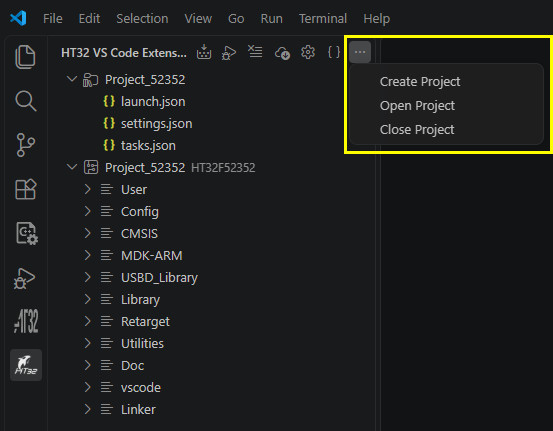
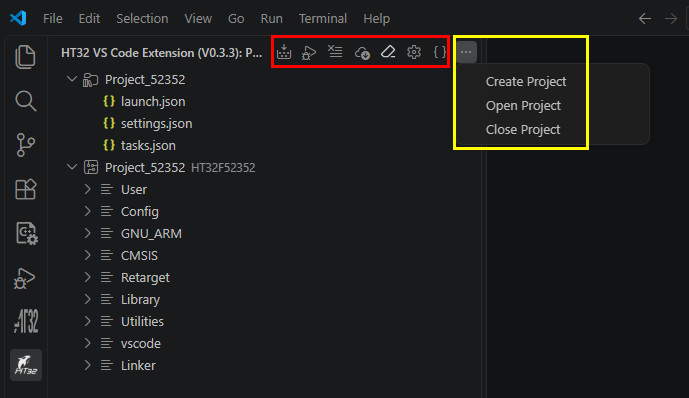
update

diff --git a/src/ht32-project-assistant-for-vs-code.ts b/src/ht32-project-assistant-for-vs-code.ts
@@ -617,6 +617,7 @@ export async function activate(ctx: vscode.ExtensionContext) {
       }, detectedGcc ?? undefined);
     }),
     vscode.commands.registerCommand('ht32.download', () => smartRunTask('download')),
+    vscode.commands.registerCommand('ht32.eraseFlash', () => smartRunTask('erase')),
     vscode.commands.registerCommand('ht32.refreshStackAnalysis', () => stackProvider.refresh()),
     vscode.commands.registerCommand('ht32.refreshProjectTree', () => autoAttachProjectFromWorkspace(ctx, tree)),
 
@@ -1260,7 +1261,7 @@ async function ensureAdapterSerialFresh(bgDir: string, wsRoot: string): Promise<
  *  - 只有一個 build-gen → 直接執行
  *  - 多個 build-gen    → QuickPick 讓使用者選擇
  */
-async function smartRunTask(kind: 'build' | 'clean' | 'download') {
+async function smartRunTask(kind: 'build' | 'clean' | 'download' | 'erase') {
   const root = currentWsRoot();
   if (!root) { vscode.window.showErrorMessage('No workspace folder open.'); return; }
 
@@ -1295,8 +1296,10 @@ async function smartRunTask(kind: 'build' | 'clean' | 'download') {
   const buildLabel    = (d: string) => { const s = suf(d); return s ? `Build ${s}` : 'Build (make)'; };
   const cleanLabel    = (d: string) => { const s = suf(d); return s ? `Clean ${s}` : 'Clean'; };
   const downloadLabel = (d: string) => { const s = suf(d); return s ? `Download ${s}` : 'Download'; };
+  const eraseLabel    = (d: string) => { const s = suf(d); return s ? `Erase ${s}` : 'Erase Flash'; };
   const taskLabel     = (d: string) =>
-    kind === 'build' ? buildLabel(d) : kind === 'clean' ? cleanLabel(d) : downloadLabel(d);
+    kind === 'build' ? buildLabel(d) : kind === 'clean' ? cleanLabel(d) :
+    kind === 'erase' ? eraseLabel(d) : downloadLabel(d);
 
   if (kind === 'build') {
     const parent = bgParent(root);
@@ -1319,7 +1322,7 @@ async function smartRunTask(kind: 'build' | 'clean' | 'download') {
   }
 
   if (bgDirs.length === 1) {
-    if (kind === 'download') {
+    if (kind === 'download' || kind === 'erase') {
       await ensureAdapterSerialFresh(path.join(bgParent(root), bgDirs[0]), root);
     }
     if (kind === 'build') { await startBuildTask(taskLabel(bgDirs[0])); }
@@ -1339,10 +1342,14 @@ async function smartRunTask(kind: 'build' | 'clean' | 'download') {
     items.push({ label: 'Clean All', description: 'Clean all projects in sequence' });
   }
 
-  const placeHolder = kind === 'build' ? 'Select project to build' : kind === 'clean' ? 'Select project to clean' : 'Select project to download';
+  const placeHolder =
+    kind === 'build'  ? 'Select project to build'  :
+    kind === 'clean'  ? 'Select project to clean'  :
+    kind === 'erase'  ? 'Select project to erase'  :
+    'Select project to download';
   const sel = await vscode.window.showQuickPick(items, { placeHolder });
   if (!sel) return;
-  if (kind === 'download') {
+  if (kind === 'download' || kind === 'erase') {
     const selectedBg = bgDirs.find(d => taskLabel(d) === sel.label);
     if (selectedBg) {
       await ensureAdapterSerialFresh(path.join(bgParent(root), selectedBg), root);
@@ -3984,6 +3991,8 @@ async function generateTasksAndLaunchAndMakefile(
   const cleanLabel      = (dir: string) => { const s = bgSuffix(dir); return s ? `Clean ${s}` : 'Clean'; };
   /** task label for Download */
   const downloadLabel   = (dir: string) => { const s = bgSuffix(dir); return s ? `Download ${s}` : 'Download'; };
+  /** task label for Erase Flash */
+  const eraseLabel      = (dir: string) => { const s = bgSuffix(dir); return s ? `Erase ${s}` : 'Erase Flash'; };
   /** task label for F5 preLaunchTask: Kill → Compile → Download → OpenOCD */
   const debugPreLaunchLabel = (dir: string) => { const s = bgSuffix(dir); return s ? `Build & Download ${s}` : 'Build & Download'; };
   /** task label for OpenOCD background server（Debug 和 Attach 共用） */
@@ -4475,6 +4484,26 @@ async function generateTasksAndLaunchAndMakefile(
           : [downloadLabel(bg)],
         dependsOrder: 'sequence',
       });
+      // Erase Only (pyocd)
+      const eraseArgs: string[] = ['erase', '-t', bgTargetId];
+      for (const p of packPathsForTask) { eraseArgs.push('--pack', p); }
+      if (pyocdYamlRef) { eraseArgs.push('--config', pyocdYamlRef); }
+      if (projSettings.adapterSerial.trim()) { eraseArgs.push('--probe', projSettings.adapterSerial.trim()); }
+      if (projSettings.adapterSpeed.trim()) {
+        eraseArgs.push('--frequency', String(Number(projSettings.adapterSpeed) * 1000));
+      }
+      eraseArgs.push('--chip');
+      if (projSettings.openocdDebugLevel >= 3)      { eraseArgs.push('-v', '-v'); }
+      else if (projSettings.openocdDebugLevel >= 2) { eraseArgs.push('-v'); }
+      taskList.push({
+        label:          eraseLabel(bg),
+        type:           'shell',
+        command:        { value: pyocdExeForDl, quoting: 'strong' },
+        args:           eraseArgs.map(a => ({ value: a, quoting: 'strong' })),
+        options:        { cwd: '${workspaceFolder}', ...(envForTasks ? { env: envForTasks } : {}) },
+        problemMatcher: [],
+        presentation:   { reveal: 'always', panel: 'dedicated', clear: true }
+      });
     } else {
       // OpenOCD Download：Kill OpenOCD 確保燒錄前 probe 無人佔用
       // SkipReadID 讓 auto_obe 跳過 MCU cfg DID 驗證（HT32F493x5 無 package-generic cfg 檔）
@@ -4520,6 +4549,33 @@ async function generateTasksAndLaunchAndMakefile(
           dependsOrder: 'sequence',
         });
       }
+      // Erase Only (OpenOCD)
+      const erasePostCmds = [
+        `set_expected_name ${bgDeviceFinal} SkipReadID`,
+        'init',
+        'halt',
+        'ht_flash erase_chip',
+        'echo {Erase Flash: Done.}',
+        'shutdown',
+      ];
+      const eraseOcdArgs = buildOpenOcdArgs(
+        [interfaceCfgPath, bgTargetCfgPath],
+        bgPreConfigCmds,
+        erasePostCmds,
+        undefined,
+        projSettings.openocdDebugLevel,
+      );
+      taskList.push({
+        label:          eraseLabel(bg),
+        type:           'shell',
+        command:        { value: openocdExe, quoting: 'strong' },
+        args:           eraseOcdArgs,
+        dependsOn:      ['Kill OpenOCD'],
+        dependsOrder:   'sequence',
+        options:        { cwd: '${workspaceFolder}', ...(envForTasks ? { env: envForTasks } : {}) },
+        problemMatcher: [],
+        presentation:   { reveal: 'always', panel: 'dedicated', clear: true }
+      });
     }
 
     if (projSettings.serverType === 'external') {

diff --git a/README.md b/README.md
@@ -116,6 +116,7 @@ After installation, the **HT32 icon** appears in the Activity Bar. Click it to o
 | Debug | Start Cortex-Debug session via pyOCD or OpenOCD (Flash & Debug or Attach) |
 | Clean | Delete the `build/` output directory |
 | Download | Download firmware without starting a debug session |
+| Erase Flash | Erase the entire chip flash (chip erase) |
 | Settings | Open Project Settings |
 | Generate Build & Debug Config | Regenerate `tasks.json` and `launch.json` |
 
@@ -127,7 +128,7 @@ The **`···` (More Actions)** menu also contains:
 | Open Project | Open a `.ht32vs` project file |
 | Close Project | Close the currently loaded project |
 
-<img src="media/more_actions.jpg" width="300" style="border:1px solid #ccc; border-radius:4px; padding:3px;">
+<img src="media/more_actions.jpg" width="500" style="border:1px solid #ccc; border-radius:4px; padding:3px;">
 
 ---
 
@@ -386,6 +387,13 @@ For all related settings, see [Project Settings → Debugger tab](#debugger-tab)
 
 <img src="media/10.jpg" width="500" style="border:1px solid #ccc; border-radius:4px; padding:3px;">
 
+### Erase Flash
+
+Erases the entire chip flash without programming new firmware. Useful when the existing firmware is corrupted or you need a clean slate.
+
+1. Confirm the debug probe is connected
+2. Click **Erase Flash** in the HT32 toolbar
+
 ### Debug
 
 1. Click **Debug** in the HT32 toolbar, or press **Ctrl+Shift+D**
@@ -603,6 +611,7 @@ After conversion or project creation, the extension auto-generates `.clangd` and
 | `HT32: Convert HT32-IDE Projects` | Import Eclipse CDT `.project` |
 | `HT32: Build` | Run build task |
 | `HT32: Download` | Download firmware |
+| `HT32: Erase Flash` | Erase the entire chip flash (chip erase) |
 | `HT32: Debug` | Start debug session |
 | `HT32: Clean` | Clean build output |
 | `HT32: Open Settings` | Open Project Settings |
